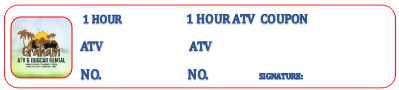
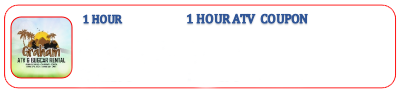
initial commit

diff --git a/script.js b/script.js
@@ -16,16 +16,20 @@ document.addEventListener("DOMContentLoaded", () => {
 
       const span1 = document.createElement("span");
       span1.className = "number1";
-      span1.textContent = ` ${i}`;
+      span1.textContent = ` NO.${i}`;
+
+      const signature = document.createElement("span");
+      signature.className = "signature";
+      signature.textContent = `SIGNATURE:`;
 
       const span2 = document.createElement("span");
       span2.className = "number2";
-      span2.textContent = `${i}`;
+      span2.textContent = `NO.${i}`;
 
       const spanPrice1 = document.createElement("span");
       spanPrice1.className = "price1";
       if (!isNaN(pricePerImage)) {
-        spanPrice1.textContent = `(${pricePerImage})`;
+        spanPrice1.textContent = `ATV (${pricePerImage})`;
       } else {
         spanPrice1.textContent = "Price: N/A"; // Default if price is not entered
       }
@@ -33,7 +37,7 @@ document.addEventListener("DOMContentLoaded", () => {
       const spanPrice2 = document.createElement("span");
       spanPrice2.className = "price2";
       if (!isNaN(pricePerImage)) {
-        spanPrice2.textContent = `(${pricePerImage})`;
+        spanPrice2.textContent = `ATV (${pricePerImage})`;
       } else {
         spanPrice2.textContent = "Price: N/A"; // Default if price is not entered
       }
@@ -41,6 +45,7 @@ document.addEventListener("DOMContentLoaded", () => {
       imageItem.appendChild(img);
       imageItem.appendChild(span1);
       imageItem.appendChild(span2);
+      imageItem.appendChild(signature);
       imageItem.appendChild(spanPrice1); // Add first price
       imageItem.appendChild(spanPrice2); // Add second price
       imageContainer.appendChild(imageItem);

diff --git a/style.css b/style.css
@@ -27,29 +27,35 @@
 
 .image-item .number1 {
   top: 58px;
-  left: 103px;
+  left: 75px;
 }
 
 .image-item .number2 {
   top: 58px;
-  left: 210px;
+  left: 180px;
 }
 
 .price1,
-.price2 {
+.price2,
+.signature {
   position: absolute;
   padding: 5px;
-  font-size: 18px;
+  font-size: 16px;
   font-weight: bold;
-  font-family: "Segoe UI", Tahoma, Geneva, Verdana, sans-serif;
   color: #2f5597;
   font-family: "Times New Roman", Times, serif;
 }
 .price1 {
   top: 27px;
-  left: 104px;
+  left: 75px;
 }
 .price2 {
   top: 27px;
-  left: 210px;
+  left: 180px;
+}
+.signature {
+  top: 63px;
+  left: 260px;
+  font-size: 10px;
+  font-weight: bolder;
 }
